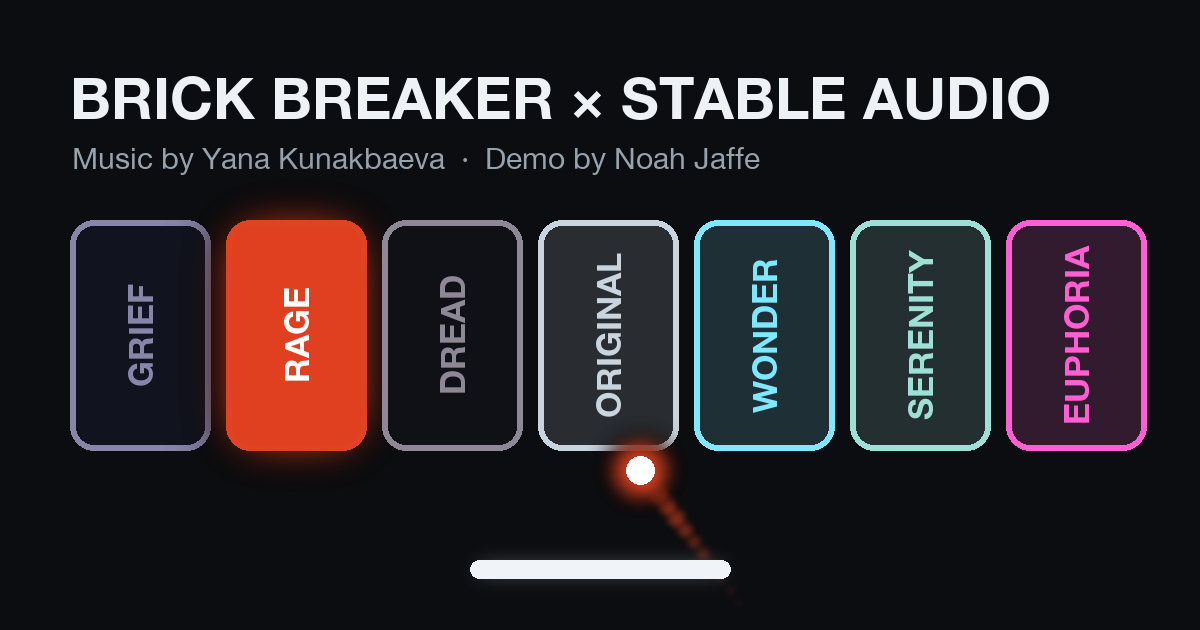
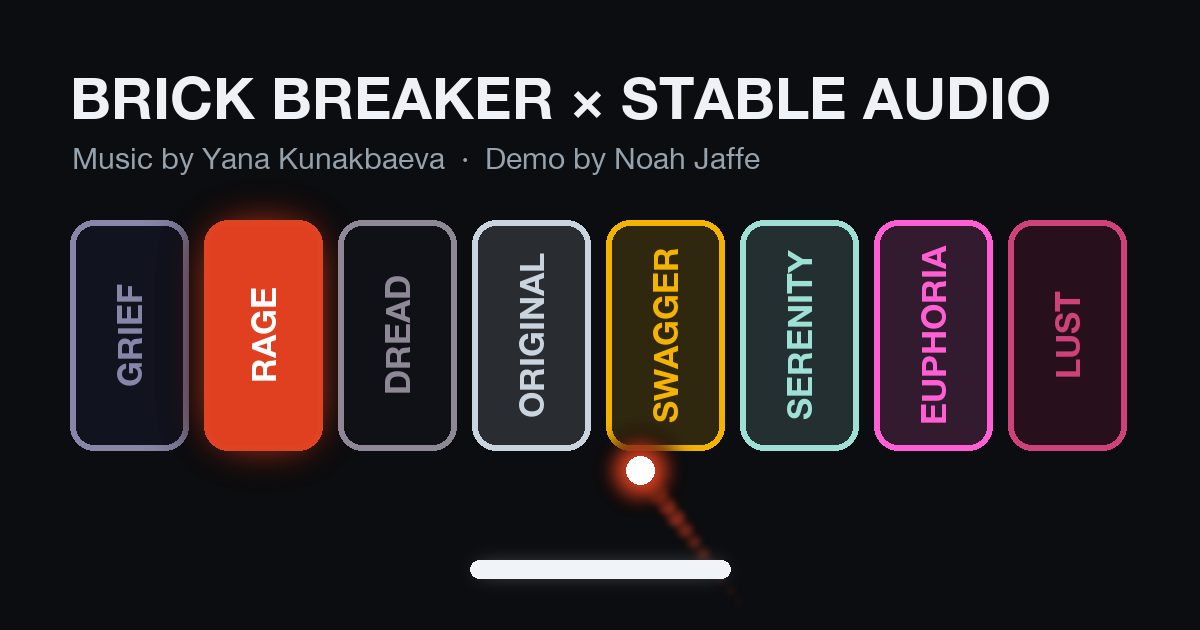
Site palette: SWAGGER replaces WONDER, paired with DREAD; LUST stays
GRIEF RAGE DREAD | ORIGINAL | SWAGGER SERENITY EUPHORIA LUST. DREAD and SWAGGER push away from each
other; the others keep their pairs. The link-preview image fits any number of bricks and is redrawn
(og.png?v=4).

Changed region(s): [[0.0925, 0.3317, 0.9558, 0.754]]

diff --git a/vite.config.ts b/vite.config.ts
@@ -20,7 +20,7 @@ const siteHead: Plugin = {
         `<meta property="og:url" content="${SITE_URL}" />`,
         `<meta property="og:title" content="${SITE_TITLE}" />`,
         `<meta property="og:description" content="${SITE_DESCRIPTION}" />`,
-        `<meta property="og:image" content="${SITE_URL}og.png?v=3" />`, // ?v: a new image is fetched afresh, not from previews' caches
+        `<meta property="og:image" content="${SITE_URL}og.png?v=4" />`, // ?v: a new image is fetched afresh, not from previews' caches
         `<meta property="og:image:width" content="1200" />`,
         `<meta property="og:image:height" content="630" />`,
         `<meta name="twitter:card" content="summary_large_image" />`,

diff --git a/src/emotions.test.ts b/src/emotions.test.ts
@@ -10,7 +10,7 @@ test('a new emotion gets a fresh id and a colour not on the board, and joins the
   assert.equal(a.label, 'NOSTALGIA');
   assert.ok(a.id >= 100 && !site.some((b) => b.id === a.id));
   assert.ok(!site.some((b) => b.color === a.color));
-  const b = makeEmotion('swagger', 'confident, strutting', undefined, [...site, a]);
+  const b = makeEmotion('longing', 'longing, aching', undefined, [...site, a]);
   assert.equal(b.id, a.id + 1);
   assert.notEqual(b.color, a.color);
   const row = paletteOf({ palette: 'site', extra: [a, b] }).bricks;

diff --git a/site/og_image.py b/site/og_image.py
@@ -54,7 +54,8 @@ d.text((70, 62), "BRICK BREAKER × STABLE AUDIO", font=font(58), fill=(238, 242,
 d.text((72, 140), "Music by Yana Kunakbaeva  ·  Demo by Noah Jaffe", font=font(30, bold=False), fill=(150, 162, 174))
 
 # The row of bricks, labels running up them as in the game, all one size.
-x0, y0, bw, bh, gap, rad, line = 70, 220, 140, 230, 16, 24, 6
+x0, y0, bh, gap, rad, line = 70, 220, 230, 16, 24, 6
+bw = min(140, (W - 2 * x0 - (len(bricks) - 1) * gap) // len(bricks))  # the row fits the image, however many bricks
 size = 34
 while max(font(size).getlength(b["label"]) for b in bricks) > bh * 0.8:
     size -= 1
